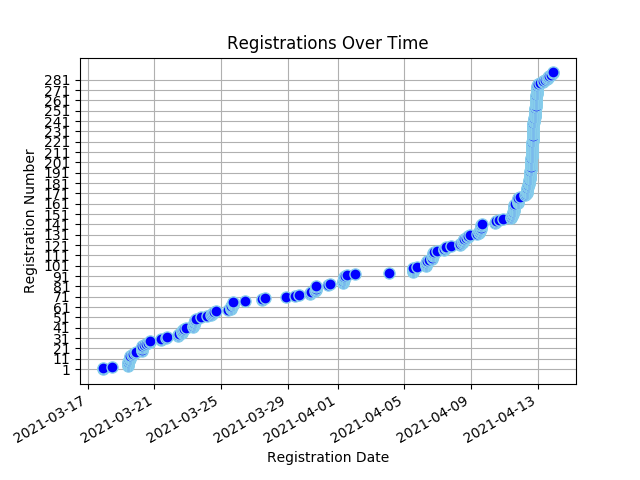
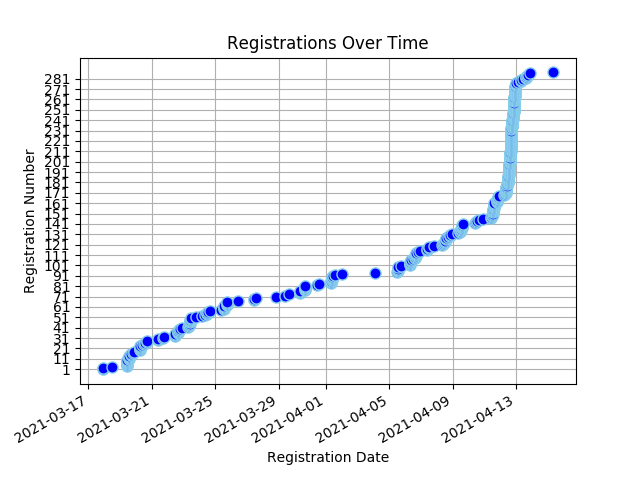
Registree stats backup on Thu 15 Apr 2021 09:12:01 SAST

diff --git a/content/registrees/_index.md b/content/registrees/_index.md
@@ -3,7 +3,7 @@ title: Registration Stats
 draft: false
 ---
 
-<ul><li><strong>Number of Registrees</strong>: 288</li>
+<ul><li><strong>Number of Registrees</strong>: 287</li>
 
 <li><strong>Number of Clubs</strong>: 68</li>
 
@@ -33,6 +33,6 @@ draft: false
         </tr>
     </thead>
     <tbody>
-<tr><td>Natalie Abrahams</td><td>Cape Town</td><td>410W</td></tr><tr><td>Alan Abramsohn</td><td>Milnerton</td><td>410W</td></tr><tr><td>Janine Abramsohn</td><td>Sea Point</td><td>410W</td></tr><tr><td>Rashid Adams</td><td>Athlone</td><td>410W</td></tr><tr><td>Linda Anderson</td><td>George</td><td>410W</td></tr><tr><td>Neale Stewart ANDREWS</td><td>Cowies Hill</td><td>410E</td></tr><tr><td>Linda Baumgarten</td><td>Sea Point</td><td>410W</td></tr><tr><td>Ulrike Behrens</td><td>Windhoek</td><td>410W</td></tr><tr><td>Cathleen Benade</td><td>Rehoboth</td><td>410W</td></tr><tr><td>Cathleen Benade</td><td>Rehoboth</td><td>410W</td></tr><tr><td>Cathleen Benade</td><td>Rehoboth</td><td>410W</td></tr><tr><td>Valencia Beukes-Williams</td><td>Kuilsriver</td><td>410W</td></tr><tr><td>Belinda Blakeman</td><td>North Durban</td><td>410E</td></tr><tr><td>Lyn(ette) Botha</td><td>Cowies Hill</td><td>410E</td></tr><tr><td>JOSE BRAGA BORGES</td><td>Malmesbury</td><td>410W</td></tr><tr><td>Paul Brauteseth</td><td>Port Shepstone</td><td>410E</td></tr><tr><td>Byron Brooker</td><td>Pretoria South</td><td>410E</td></tr><tr><td>Nelle Buhrmann</td><td>Sea Point</td><td>410W</td></tr><tr><td>Christopher Bull</td><td>The Wilds</td><td>410E</td></tr><tr><td>Herman Cadman</td><td>Stellenbosch</td><td>410W</td></tr><tr><td>Artemis Calomiris</td><td>Helderberg</td><td>410W</td></tr><tr><td>Linda Ann Cannone</td><td>Fish Hoek</td><td>410W</td></tr><tr><td>Petrus Carstens</td><td>Worcester</td><td>410W</td></tr><tr><td>Lizelle Castle</td><td>Athlone</td><td>410W</td></tr><tr><td>Sue Charles</td><td>Tokai</td><td>410W</td></tr><tr><td>Lionel Chazen</td><td>Edenvale</td><td>410E</td></tr><tr><td>Perry Chetty</td><td>East Coast</td><td>410E</td></tr><tr><td>Tanyaradzwa Chinyai</td><td>Groote Schuur</td><td>410W</td></tr><tr><td>Delaney Yeltsin Cloete</td><td>Eden</td><td>410W</td></tr><tr><td>Kate Coppen</td><td>Letaba Tzaneen</td><td>410E</td></tr><tr><td>Esme Cornelius</td><td>Kuilsriver</td><td>410W</td></tr><tr><td>Sharon Cottle</td><td>Groote Schuur</td><td>410W</td></tr><tr><td>Joel d'Offay</td><td>Milnerton</td><td>410W</td></tr><tr><td>Peter Daniel</td><td>Gordons Bay</td><td>410W</td></tr><tr><td>Norma Daniel</td><td>Gordons Bay</td><td>410W</td></tr><tr><td>Melanie Davids</td><td>Alberton</td><td>410E</td></tr><tr><td>Engela de Kock</td><td>Swellendam</td><td>410W</td></tr><tr><td>Francois de Kock</td><td>Swellendam</td><td>410W</td></tr><tr><td>Charlotte de Silva</td><td>Edenvale</td><td>410E</td></tr><tr><td>ANDRE DE VILLIERS</td><td>Malgas</td><td>410W</td></tr><tr><td>Lara De Wet</td><td>Edenvale</td><td>410E</td></tr><tr><td>Benita Diener</td><td>Mitchells Plain</td><td>410W</td></tr><tr><td>Freda Dodd</td><td>Table View</td><td>410W</td></tr><tr><td>Peggy Du Plooy</td><td>Krugersdorp</td><td>410E</td></tr><tr><td>Ivan Du Plooy</td><td>Krugersdorp</td><td>410E</td></tr><tr><td>Tammy du Plooy</td><td>Alberton</td><td>410E</td></tr><tr><td>Marc du Plooy</td><td>Alberton</td><td>410E</td></tr><tr><td>Desiree du Toit</td><td>Ramsgate</td><td>410E</td></tr><tr><td>Hanè Dunn</td><td>Swellendam</td><td>410W</td></tr><tr><td>Glynn Easton</td><td>Helderkruin</td><td>410E</td></tr><tr><td>Denise Easton</td><td>Helderkruin</td><td>410E</td></tr><tr><td>Johan Els</td><td>Wilro Park</td><td>410E</td></tr><tr><td>Fadia Ely</td><td>Athlone</td><td>410W</td></tr><tr><td>Abubakr Ely</td><td>Deep South</td><td>410W</td></tr><tr><td>Freddie Erasmus</td><td>Uitenhage</td><td>410E</td></tr><tr><td>Natalie Etridge</td><td>Sedgefield</td><td>410W</td></tr><tr><td>AIDAN Ewers</td><td>Newlands</td><td>410W</td></tr><tr><td>Roger Fahrbach</td><td>Windhoek</td><td>410W</td></tr><tr><td>Beate Fahrbach</td><td>Windhoek</td><td>410W</td></tr><tr><td>Jules Flanagan</td><td>Tokai</td><td>410W</td></tr><tr><td>Charles Flanagan</td><td>Tokai</td><td>410W</td></tr><tr><td>Jéan Fouché</td><td>Worcester</td><td>410W</td></tr><tr><td>Michele Fourie</td><td>Merriman</td><td>410W</td></tr><tr><td>Lucille Fourie</td><td>Alberton</td><td>410E</td></tr><tr><td>Clive Fox</td><td>Merriman</td><td>410W</td></tr><tr><td>Pat Fox</td><td>Merriman</td><td>410W</td></tr><tr><td>Kelvin Foxcroft</td><td>Helderkruin</td><td>410E</td></tr><tr><td>Jenny Foxcroft</td><td>Helderkruin</td><td>410E</td></tr><tr><td>Katherine Foxcroft</td><td>Helderkruin</td><td>410E</td></tr><tr><td>Martin Froise</td><td>Letaba Tzaneen</td><td>410E</td></tr><tr><td>Allison Georges</td><td>Cape Of Good Hope</td><td>410W</td></tr><tr><td>Bernd Gerhard</td><td>Wilro Park</td><td>410E</td></tr><tr><td>Shirley Gerhard</td><td>Wilro Park</td><td>410E</td></tr><tr><td>Valerie Graham</td><td>Nelspruit</td><td>410E</td></tr><tr><td>Mike Graham</td><td>Nelspruit</td><td>410E</td></tr><tr><td>Viv Grater</td><td>Sedgefield</td><td>410W</td></tr><tr><td>Brian Gray</td><td>Durbanville</td><td>410W</td></tr><tr><td>David Griffith</td><td>The Wilds</td><td>410E</td></tr><tr><td>Matty Grobler</td><td>Henties Bay</td><td>410W</td></tr><tr><td>Christiana Groenewoud</td><td>Milnerton</td><td>410W</td></tr><tr><td>Mattheus Groves</td><td>Sedgefield</td><td>410W</td></tr><tr><td>Glyn Gunter</td><td>Malmesbury</td><td>410W</td></tr><tr><td>Clint Guthrie</td><td>Pretoria South</td><td>410E</td></tr><tr><td>Barbara Haywood</td><td>Eden</td><td>410W</td></tr><tr><td>Mike Heathcote</td><td>Port Shepstone</td><td>410E</td></tr><tr><td>Zarina Hendricks</td><td>Athlone</td><td>410W</td></tr><tr><td>ELIZABETH Hendriks</td><td>Table View</td><td>410W</td></tr><tr><td>MBULELO HERMANUS</td><td>Alberton</td><td>410E</td></tr><tr><td>Evelyn Herzfeld</td><td>Edenvale</td><td>410E</td></tr><tr><td>Dorothy Hess</td><td>Kuilsriver</td><td>410W</td></tr><tr><td>Wendy Higgins</td><td>Wilro Park</td><td>410E</td></tr><tr><td>Avril Hobbs</td><td>North Durban</td><td>410E</td></tr><tr><td>Trevor Hobbs</td><td>North Durban</td><td>410E</td></tr><tr><td>Jacqui Hocking</td><td>Midrand</td><td>410E</td></tr><tr><td>Cliff Hocking</td><td>Midrand</td><td>410E</td></tr><tr><td>Ellen G W Hoffmann</td><td>Windhoek</td><td>410W</td></tr><tr><td>KEITH ALEXANDER HOLLIMAN</td><td>Alberton</td><td>410E</td></tr><tr><td>Liz Houston</td><td>Table View</td><td>410W</td></tr><tr><td>John Houston</td><td>Table View</td><td>410W</td></tr><tr><td>Johan Huysamen</td><td>Malmesbury</td><td>410W</td></tr><tr><td>Alna Jackson</td><td>Pretoria Jakaranda</td><td>410E</td></tr><tr><td>Dawid Jacobs</td><td>Durbanville</td><td>410W</td></tr><tr><td>Jean Jacobs</td><td>Mitchells Plain</td><td>410W</td></tr><tr><td>WOLSLEY Jacobson</td><td>Cape Town</td><td>410W</td></tr><tr><td>Tristan Jeniker</td><td>Merriman</td><td>410W</td></tr><tr><td>MALCOLM JOHNSTON</td><td>Standerton</td><td>410E</td></tr><tr><td>Grant Jonathan</td><td>Gordons Bay</td><td>410W</td></tr><tr><td>Jos Kahn</td><td>Ceres</td><td>410W</td></tr><tr><td>Michelle Kahn</td><td>Sea Point</td><td>410W</td></tr><tr><td>Nico Kaiyamo</td><td>Tsumeb</td><td>410W</td></tr><tr><td>Faezal Karriem</td><td>Worcester</td><td>410W</td></tr><tr><td>Amanda Kemp</td><td>Milnerton</td><td>410W</td></tr><tr><td>Esmeralda Catherine Kennel</td><td>Newlands</td><td>410W</td></tr><tr><td>Jerome Kern</td><td>Groote Schuur</td><td>410W</td></tr><tr><td>Hassan Khan</td><td>Kirstenbosch</td><td>410W</td></tr><tr><td>Faniso Khoza</td><td>The Wilds</td><td>410E</td></tr><tr><td>Margie Kienast</td><td>Edenvale</td><td>410E</td></tr><tr><td>Joyce Kimari</td><td>Eden</td><td>410E</td></tr><tr><td>Ian King</td><td>Alberton</td><td>410E</td></tr><tr><td>Sandy King</td><td>Alberton</td><td>410E</td></tr><tr><td>Christa Koekemoer</td><td>Letaba Tzaneen</td><td>410E</td></tr><tr><td>Alton Koenze</td><td>Worcester</td><td>410W</td></tr><tr><td>Muya Koloko</td><td>Durbanville</td><td>410W</td></tr><tr><td>Zwaai Kruger</td><td>Sedgefield</td><td>410W</td></tr><tr><td>Pieter Kruger</td><td>Wilro Park</td><td>410E</td></tr><tr><td>Niqula Kruger</td><td>Wilro Park</td><td>410E</td></tr><tr><td>Bettina Kröning</td><td>Windhoek</td><td>410W</td></tr><tr><td>Natalie Laas</td><td>Alberton</td><td>410E</td></tr><tr><td>Susan Labuschagne</td><td>Wilro Park</td><td>410E</td></tr><tr><td>Bevil Lakay</td><td>Mitchells Plain</td><td>410W</td></tr><tr><td>Paula Lang</td><td>Gordons Bay</td><td>410W</td></tr><tr><td>Jimmy Lang</td><td>Gordons Bay</td><td>410W</td></tr><tr><td>Elke Langmaak</td><td>Windhoek</td><td>410W</td></tr><tr><td>Kai Langmaak</td><td>Windhoek</td><td>410W</td></tr><tr><td>Evelyn May Langton</td><td>Alberton</td><td>410E</td></tr><tr><td>Herman Laubscher</td><td>Ceres</td><td>410W</td></tr><tr><td>Steven Lautenbach</td><td>Pretoria South</td><td>410E</td></tr><tr><td>leandre layman</td><td>Groote Schuur</td><td>410W</td></tr><tr><td>Jeanette le Roux</td><td>Gonubie</td><td>410E</td></tr><tr><td>Heather Lee</td><td>Cape Of Good Hope</td><td>410W</td></tr><tr><td>Graeme Logan</td><td>Pretoria South</td><td>410E</td></tr><tr><td>Erika Louw</td><td>Durbanville</td><td>410W</td></tr><tr><td>Dee Love</td><td>Cowies Hill</td><td>410E</td></tr><tr><td>Rashmiya Lucas</td><td>Mitchells Plain</td><td>410W</td></tr><tr><td>Zarina Luck</td><td>Newcastle</td><td>410E</td></tr><tr><td>Pam MacRobert</td><td>Groote Schuur</td><td>410W</td></tr><tr><td>Sharon Mangwende</td><td>Cape Town</td><td>410W</td></tr><tr><td>Richard MARCHANT</td><td>The Wilds</td><td>410E</td></tr><tr><td>Beaulieu Mare</td><td>Benoni Lakes</td><td>410E</td></tr><tr><td>Nick Maré</td><td>Benoni Lakes</td><td>410E</td></tr><tr><td>Jean Masson</td><td>Port Shepstone</td><td>410E</td></tr><tr><td>LANCE MAYTHAM</td><td>Swellendam</td><td>410W</td></tr><tr><td>ROSEMARIE MAYTHAM</td><td>Swellendam</td><td>410W</td></tr><tr><td>David Mccullough</td><td>Pretoria South</td><td>410E</td></tr><tr><td>Rochelle McDonald</td><td>Vereeniging</td><td>410E</td></tr><tr><td>Alec McKerrow</td><td>Port Alfred</td><td>410E</td></tr><tr><td>Stuart McPherson</td><td>Newlands</td><td>410W</td></tr><tr><td>Mark Meltzer</td><td>The Wilds</td><td>410E</td></tr><tr><td>Elisa Metz</td><td>Milnerton</td><td>410W</td></tr><tr><td>Denis Meyer</td><td>Port Shepstone</td><td>410E</td></tr><tr><td>Roy Michas</td><td>Midrand</td><td>410E</td></tr><tr><td>Dawn Michas</td><td>Midrand</td><td>410E</td></tr><tr><td>BERNICE MILLS</td><td>Centurion</td><td>410E</td></tr><tr><td>Patrick Mills</td><td>Centurion</td><td>410E</td></tr><tr><td>Cherie Milosevich</td><td>Milnerton</td><td>410W</td></tr><tr><td>Alana Mitchell</td><td>Rustenburg</td><td>410E</td></tr><tr><td>Juan Mitchell</td><td>Rustenburg</td><td>410E</td></tr><tr><td>Virginia Mkhize</td><td>Cape Town</td><td>410W</td></tr><tr><td>Frauke E. Moeller</td><td>Windhoek</td><td>410W</td></tr><tr><td>Bernadine Moses</td><td>Cape Town</td><td>410W</td></tr><tr><td>Brian Mosesd</td><td>Cape Of Good Hope</td><td>410W</td></tr><tr><td>Jacques Mostert</td><td>Merriman</td><td>410W</td></tr><tr><td>Suzanne Murray</td><td>Vereeniging</td><td>410E</td></tr><tr><td>Gary Murray</td><td>Vereeniging</td><td>410E</td></tr><tr><td>Peter Mutschler</td><td>Grootfontein</td><td>410W</td></tr><tr><td>Pieter Myburg</td><td>Wellington</td><td>410W</td></tr><tr><td>Cornette Naude</td><td>Letaba Tzaneen</td><td>410E</td></tr><tr><td>Pieter Nel</td><td>George</td><td>410W</td></tr><tr><td>Tillie Nel</td><td>Eden</td><td>410W</td></tr><tr><td>Theo Nel</td><td>Pretoria South</td><td>410E</td></tr><tr><td>Mike Newlands</td><td>Port Alfred</td><td>410E</td></tr><tr><td>Angela Niehaus</td><td>Bergvliet</td><td>410W</td></tr><tr><td>Rachel Nortjie</td><td>Mitchells Plain</td><td>410W</td></tr><tr><td>PDG Bokkie Oberholzer</td><td>Uitenhage</td><td>410E</td></tr><tr><td>Chris Ocker</td><td>Fish Hoek</td><td>410W</td></tr><tr><td>Jenny Ocker</td><td>Fish Hoek</td><td>410W</td></tr><tr><td>Debra Olivier</td><td>Sedgefield</td><td>410W</td></tr><tr><td>Isabella Stratton Ormandy</td><td>Milnerton</td><td>410W</td></tr><tr><td>Teresa Pantoleon</td><td>Vereeniging</td><td>410E</td></tr><tr><td>Maureen Peters</td><td>Ceres</td><td>410W</td></tr><tr><td>Sundru Pillay</td><td>Durbanville</td><td>410W</td></tr><tr><td>Patrick Pillay</td><td>Tygerberg Hills</td><td>410W</td></tr><tr><td>Tracey Polkinghorne</td><td>Kensington</td><td>410E</td></tr><tr><td>Gavin Polkinghorne</td><td>Kensington</td><td>410E</td></tr><tr><td>BRIAN PORTEOUS</td><td>Hibberdene</td><td>410E</td></tr><tr><td>Yvonne  Maureen Poyowe</td><td>Cape Of Good Hope</td><td>410W</td></tr><tr><td>Sheldon Edmund Pretorius</td><td>Merriman</td><td>410W</td></tr><tr><td>Mary-Anne Ras</td><td>Swellendam</td><td>410W</td></tr><tr><td>Leon Jacobus Ras</td><td>Swellendam</td><td>410E</td></tr><tr><td>Hugo Reniers</td><td>Nelspruit</td><td>410E</td></tr><tr><td>Sandy Roman</td><td>Bergvliet</td><td>410W</td></tr><tr><td>Mark Rossouw</td><td>Tokai</td><td>410W</td></tr><tr><td>Andrea Rothner</td><td>Eden</td><td>410W</td></tr><tr><td>Anthonie Petrus Roux</td><td>Moorreesburg</td><td>410W</td></tr><tr><td>Ingrid Russell</td><td>Fish Hoek</td><td>410W</td></tr><tr><td>Rodney Sabatier</td><td>Letaba Tzaneen</td><td>410E</td></tr><tr><td>Sharon Sampie</td><td>Bergvliet</td><td>410W</td></tr><tr><td>Vera Schatz</td><td>Windhoek</td><td>410W</td></tr><tr><td>Frank Schatz</td><td>Windhoek</td><td>410W</td></tr><tr><td>Francis Searle</td><td>Kouga</td><td>410E</td></tr><tr><td>Gloria Searle</td><td>Kouga</td><td>410E</td></tr><tr><td>Ami Sell</td><td>Windhoek</td><td>410W</td></tr><tr><td>Beryl Simpson</td><td>Cape Town</td><td>410W</td></tr><tr><td>Kenlis Sircoulomb</td><td>Windhoek</td><td>410W</td></tr><tr><td>Holger Sircoulomb</td><td>Windhoek</td><td>410W</td></tr><tr><td>Hennie Smeer</td><td>Windhoek</td><td>410W</td></tr><tr><td>Sue Smit</td><td>Centurion</td><td>410E</td></tr><tr><td>Herman Smit</td><td>Swellendam</td><td>410W</td></tr><tr><td>Santie Smit</td><td>Durbanville</td><td>410W</td></tr><tr><td>Jeff Smith</td><td>Port Shepstone</td><td>410E</td></tr><tr><td>Bennie Smith</td><td>Wellington</td><td>410W</td></tr><tr><td>Carmen Dolores Smith</td><td>Tokai</td><td>410W</td></tr><tr><td>David John Smith</td><td>Tokai</td><td>410W</td></tr><tr><td>LYN SNYMAN</td><td>Deep South</td><td>410W</td></tr><tr><td>Diana Sochen</td><td>Sea Point</td><td>410W</td></tr><tr><td>Max Stander</td><td>Port Alfred</td><td>410E</td></tr><tr><td>Ashley Stander</td><td>Krugersdorp</td><td>410E</td></tr><tr><td>Brett Jason Stander</td><td>Krugersdorp</td><td>410E</td></tr><tr><td>TIM STEENBERG</td><td>Wellington</td><td>410W</td></tr><tr><td>Elna Steyn</td><td>Wilro Park</td><td>410E</td></tr><tr><td>RORY stier</td><td>Deep South</td><td>410W</td></tr><tr><td>Patrick Strauss</td><td>Kuilsriver</td><td>410W</td></tr><tr><td>Trevor Sturges</td><td>Midrand</td><td>410E</td></tr><tr><td>Lauryn Talbot</td><td>Benoni Lakes</td><td>410E</td></tr><tr><td>Margaret Thackwell</td><td>Table View</td><td>410W</td></tr><tr><td>Pierre Theron</td><td>Midrand</td><td>410E</td></tr><tr><td>Moira Theron</td><td>Midrand</td><td>410E</td></tr><tr><td>Diane Townsend</td><td>Benoni Lakes</td><td>410E</td></tr><tr><td>Omolayo Toye</td><td>The Wilds</td><td>410E</td></tr><tr><td>David Alex Tshikala</td><td>Athlone</td><td>410W</td></tr><tr><td>Alistair Tuckett</td><td>Roodepoort Clearwater Cyber</td><td>410E</td></tr><tr><td>Rowan Tuckett</td><td>Roodepoort Clearwater Cyber</td><td>410E</td></tr><tr><td>Gail Tuckett</td><td>Roodepoort Clearwater Cyber</td><td>410E</td></tr><tr><td>Jiri Uchytil</td><td>Alberton</td><td>410E</td></tr><tr><td>Tracy Valadao</td><td>Midrand</td><td>410E</td></tr><tr><td>Carl van Blerk</td><td>Eden</td><td>410W</td></tr><tr><td>HILARY LISE VAN BREDA</td><td>Cape Town</td><td>410W</td></tr><tr><td>Marina Van de Merwe</td><td>Malmesbury</td><td>410W</td></tr><tr><td>Ingrid van der Merwe</td><td>Letaba Tzaneen</td><td>410E</td></tr><tr><td>PATRICIA VAN DER MERWE</td><td>East London Port Rex</td><td>410E</td></tr><tr><td>MARINA VAN DER MERWE</td><td>Malmesbury</td><td>410W</td></tr><tr><td>Hennie van der Westhuizen</td><td>Helderberg</td><td>410W</td></tr><tr><td>Sydney van Heerden</td><td>Wilro Park</td><td>410E</td></tr><tr><td>Sandy van Heerden</td><td>Wilro Park</td><td>410E</td></tr><tr><td>Craig van Heerden</td><td>East London Beacon Bay</td><td>410E</td></tr><tr><td>Mark van Heerden</td><td>Pretoria South</td><td>410E</td></tr><tr><td>Riaan Van Niekerk</td><td>Pretoria South</td><td>410E</td></tr><tr><td>Neville Van Rensburg</td><td>Moorreesburg</td><td>410W</td></tr><tr><td>Johan van Rensburg</td><td>Windhoek</td><td>410W</td></tr><tr><td>Anne van Rensburg</td><td>Windhoek</td><td>410W</td></tr><tr><td>Lorna Van Romburgh</td><td>Fish Hoek</td><td>410W</td></tr><tr><td>Jeannie van Wulven</td><td>Tygerberg Hills</td><td>410W</td></tr><tr><td>Alan van Wulven</td><td>Tygerberg Hills</td><td>410W</td></tr><tr><td>Deon van Wulven</td><td>Tygerberg Hills</td><td>410W</td></tr><tr><td>Kim van Wyk</td><td>North Durban</td><td>410E</td></tr><tr><td>Lindie van Wyk</td><td>Pretoria Jakaranda</td><td>410E</td></tr><tr><td>Willem van Wyk</td><td>Midrand</td><td>410E</td></tr><tr><td>Patricia van Wyk</td><td>Pretoria Jakaranda</td><td>410E</td></tr><tr><td>Edith Van Wyk-Nelson</td><td>Kuilsriver</td><td>410W</td></tr><tr><td>Louis Venter</td><td>Letaba Tzaneen</td><td>410E</td></tr><tr><td>Russell Volker</td><td>King William's Town</td><td>410E</td></tr><tr><td>Brian von der Decken</td><td>King William's Town</td><td>410E</td></tr><tr><td>Rinette Von Mollendorf</td><td>Durbanville</td><td>410W</td></tr><tr><td>Rochelle Vorster</td><td>Sedgefield</td><td>410W</td></tr><tr><td>Alastair Warman</td><td>Port Shepstone</td><td>410E</td></tr><tr><td>Allan Watson</td><td>Sea Point</td><td>410W</td></tr><tr><td>Alison Watson</td><td>Sedgefield</td><td>410W</td></tr><tr><td>Johanna Williams</td><td>Mitchells Plain</td><td>410W</td></tr><tr><td>Neville Williamson</td><td>Port Alfred</td><td>410E</td></tr><tr><td>Geila Wills</td><td>Athlone</td><td>410W</td></tr><tr><td>Meredith Wilter-Sturges</td><td>Midrand</td><td>410E</td></tr><tr><td>Joan Woodman</td><td>Mitchells Plain</td><td>410W</td></tr><tr><td>Rocky Wright</td><td>Table View</td><td>410W</td></tr><tr><td>Judy Young</td><td>Durbanville</td><td>410W</td></tr><tr><td>Gerry Young</td><td>Mitchells Plain</td><td>410W</td></tr><tr><td>Leonie Zucker</td><td>Milnerton</td><td>410W</td></tr><tr><td>Leonie Zucker</td><td>Milnerton</td><td>410E</td></tr><tr><td>Michelle ‘t Hart</td><td>Benoni Lakes</td><td>410E</td></tr>
+<tr><td>Natalie Abrahams</td><td>Cape Town</td><td>410W</td></tr><tr><td>Alan Abramsohn</td><td>Milnerton</td><td>410W</td></tr><tr><td>Janine Abramsohn</td><td>Sea Point</td><td>410W</td></tr><tr><td>Rashid Adams</td><td>Athlone</td><td>410W</td></tr><tr><td>Linda Anderson</td><td>George</td><td>410W</td></tr><tr><td>Neale Stewart ANDREWS</td><td>Cowies Hill</td><td>410E</td></tr><tr><td>Linda Baumgarten</td><td>Sea Point</td><td>410W</td></tr><tr><td>Ulrike Behrens</td><td>Windhoek</td><td>410W</td></tr><tr><td>Cathleen Benade</td><td>Rehoboth</td><td>410W</td></tr><tr><td>Valencia Beukes-Williams</td><td>Kuilsriver</td><td>410W</td></tr><tr><td>Belinda Blakeman</td><td>North Durban</td><td>410E</td></tr><tr><td>Mel Boswell</td><td>Nelspruit</td><td>410E</td></tr><tr><td>Lyn(ette) Botha</td><td>Cowies Hill</td><td>410E</td></tr><tr><td>JOSE BRAGA BORGES</td><td>Malmesbury</td><td>410W</td></tr><tr><td>Paul Brauteseth</td><td>Port Shepstone</td><td>410E</td></tr><tr><td>Byron Brooker</td><td>Pretoria South</td><td>410E</td></tr><tr><td>Nelle Buhrmann</td><td>Sea Point</td><td>410W</td></tr><tr><td>Christopher Bull</td><td>The Wilds</td><td>410E</td></tr><tr><td>Herman Cadman</td><td>Stellenbosch</td><td>410W</td></tr><tr><td>Artemis Calomiris</td><td>Helderberg</td><td>410W</td></tr><tr><td>Linda Ann Cannone</td><td>Fish Hoek</td><td>410W</td></tr><tr><td>Petrus Carstens</td><td>Worcester</td><td>410W</td></tr><tr><td>Lizelle Castle</td><td>Athlone</td><td>410W</td></tr><tr><td>Sue Charles</td><td>Tokai</td><td>410W</td></tr><tr><td>Lionel Chazen</td><td>Edenvale</td><td>410E</td></tr><tr><td>Perry Chetty</td><td>East Coast</td><td>410E</td></tr><tr><td>Tanyaradzwa Chinyai</td><td>Groote Schuur</td><td>410W</td></tr><tr><td>Delaney Yeltsin Cloete</td><td>Eden</td><td>410W</td></tr><tr><td>Kate Coppen</td><td>Letaba Tzaneen</td><td>410E</td></tr><tr><td>Esme Cornelius</td><td>Kuilsriver</td><td>410W</td></tr><tr><td>Sharon Cottle</td><td>Groote Schuur</td><td>410W</td></tr><tr><td>Joel d'Offay</td><td>Milnerton</td><td>410W</td></tr><tr><td>Peter Daniel</td><td>Gordons Bay</td><td>410W</td></tr><tr><td>Norma Daniel</td><td>Gordons Bay</td><td>410W</td></tr><tr><td>Melanie Davids</td><td>Alberton</td><td>410E</td></tr><tr><td>Engela de Kock</td><td>Swellendam</td><td>410W</td></tr><tr><td>Francois de Kock</td><td>Swellendam</td><td>410W</td></tr><tr><td>Charlotte de Silva</td><td>Edenvale</td><td>410E</td></tr><tr><td>ANDRE DE VILLIERS</td><td>Malgas</td><td>410W</td></tr><tr><td>Lara De Wet</td><td>Edenvale</td><td>410E</td></tr><tr><td>Benita Diener</td><td>Mitchells Plain</td><td>410W</td></tr><tr><td>Freda Dodd</td><td>Table View</td><td>410W</td></tr><tr><td>Peggy Du Plooy</td><td>Krugersdorp</td><td>410E</td></tr><tr><td>Ivan Du Plooy</td><td>Krugersdorp</td><td>410E</td></tr><tr><td>Tammy du Plooy</td><td>Alberton</td><td>410E</td></tr><tr><td>Marc du Plooy</td><td>Alberton</td><td>410E</td></tr><tr><td>Desiree du Toit</td><td>Ramsgate</td><td>410E</td></tr><tr><td>Hanè Dunn</td><td>Swellendam</td><td>410W</td></tr><tr><td>Glynn Easton</td><td>Helderkruin</td><td>410E</td></tr><tr><td>Denise Easton</td><td>Helderkruin</td><td>410E</td></tr><tr><td>Johan Els</td><td>Wilro Park</td><td>410E</td></tr><tr><td>Fadia Ely</td><td>Athlone</td><td>410W</td></tr><tr><td>Abubakr Ely</td><td>Deep South</td><td>410W</td></tr><tr><td>Freddie Erasmus</td><td>Uitenhage</td><td>410E</td></tr><tr><td>Natalie Etridge</td><td>Sedgefield</td><td>410W</td></tr><tr><td>AIDAN Ewers</td><td>Newlands</td><td>410W</td></tr><tr><td>Roger Fahrbach</td><td>Windhoek</td><td>410W</td></tr><tr><td>Beate Fahrbach</td><td>Windhoek</td><td>410W</td></tr><tr><td>Jules Flanagan</td><td>Tokai</td><td>410W</td></tr><tr><td>Charles Flanagan</td><td>Tokai</td><td>410W</td></tr><tr><td>Jéan Fouché</td><td>Worcester</td><td>410W</td></tr><tr><td>Michele Fourie</td><td>Merriman</td><td>410W</td></tr><tr><td>Lucille Fourie</td><td>Alberton</td><td>410E</td></tr><tr><td>Clive Fox</td><td>Merriman</td><td>410W</td></tr><tr><td>Pat Fox</td><td>Merriman</td><td>410W</td></tr><tr><td>Kelvin Foxcroft</td><td>Helderkruin</td><td>410E</td></tr><tr><td>Jenny Foxcroft</td><td>Helderkruin</td><td>410E</td></tr><tr><td>Katherine Foxcroft</td><td>Helderkruin</td><td>410E</td></tr><tr><td>Martin Froise</td><td>Letaba Tzaneen</td><td>410E</td></tr><tr><td>Allison Georges</td><td>Cape Of Good Hope</td><td>410W</td></tr><tr><td>Bernd Gerhard</td><td>Wilro Park</td><td>410E</td></tr><tr><td>Shirley Gerhard</td><td>Wilro Park</td><td>410E</td></tr><tr><td>Valerie Graham</td><td>Nelspruit</td><td>410E</td></tr><tr><td>Mike Graham</td><td>Nelspruit</td><td>410E</td></tr><tr><td>Viv Grater</td><td>Sedgefield</td><td>410W</td></tr><tr><td>Brian Gray</td><td>Durbanville</td><td>410W</td></tr><tr><td>David Griffith</td><td>The Wilds</td><td>410E</td></tr><tr><td>Matty Grobler</td><td>Henties Bay</td><td>410W</td></tr><tr><td>Christiana Groenewoud</td><td>Milnerton</td><td>410W</td></tr><tr><td>Mattheus Groves</td><td>Sedgefield</td><td>410W</td></tr><tr><td>Glyn Gunter</td><td>Malmesbury</td><td>410W</td></tr><tr><td>Clint Guthrie</td><td>Pretoria South</td><td>410E</td></tr><tr><td>Barbara Haywood</td><td>Eden</td><td>410W</td></tr><tr><td>Mike Heathcote</td><td>Port Shepstone</td><td>410E</td></tr><tr><td>Zarina Hendricks</td><td>Athlone</td><td>410W</td></tr><tr><td>ELIZABETH Hendriks</td><td>Table View</td><td>410W</td></tr><tr><td>MBULELO HERMANUS</td><td>Alberton</td><td>410E</td></tr><tr><td>Evelyn Herzfeld</td><td>Edenvale</td><td>410E</td></tr><tr><td>Dorothy Hess</td><td>Kuilsriver</td><td>410W</td></tr><tr><td>Wendy Higgins</td><td>Wilro Park</td><td>410E</td></tr><tr><td>Avril Hobbs</td><td>North Durban</td><td>410E</td></tr><tr><td>Trevor Hobbs</td><td>North Durban</td><td>410E</td></tr><tr><td>Jacqui Hocking</td><td>Midrand</td><td>410E</td></tr><tr><td>Cliff Hocking</td><td>Midrand</td><td>410E</td></tr><tr><td>Ellen G W Hoffmann</td><td>Windhoek</td><td>410W</td></tr><tr><td>KEITH ALEXANDER HOLLIMAN</td><td>Alberton</td><td>410E</td></tr><tr><td>Liz Houston</td><td>Table View</td><td>410W</td></tr><tr><td>John Houston</td><td>Table View</td><td>410W</td></tr><tr><td>Johan Huysamen</td><td>Malmesbury</td><td>410W</td></tr><tr><td>Alna Jackson</td><td>Pretoria Jakaranda</td><td>410E</td></tr><tr><td>Dawid Jacobs</td><td>Durbanville</td><td>410W</td></tr><tr><td>Jean Jacobs</td><td>Mitchells Plain</td><td>410W</td></tr><tr><td>WOLSLEY Jacobson</td><td>Cape Town</td><td>410W</td></tr><tr><td>Tristan Jeniker</td><td>Merriman</td><td>410W</td></tr><tr><td>MALCOLM JOHNSTON</td><td>Standerton</td><td>410E</td></tr><tr><td>Grant Jonathan</td><td>Gordons Bay</td><td>410W</td></tr><tr><td>Jos Kahn</td><td>Ceres</td><td>410W</td></tr><tr><td>Michelle Kahn</td><td>Sea Point</td><td>410W</td></tr><tr><td>Nico Kaiyamo</td><td>Tsumeb</td><td>410W</td></tr><tr><td>Faezal Karriem</td><td>Worcester</td><td>410W</td></tr><tr><td>Amanda Kemp</td><td>Milnerton</td><td>410W</td></tr><tr><td>Esmeralda Catherine Kennel</td><td>Newlands</td><td>410W</td></tr><tr><td>Jerome Kern</td><td>Groote Schuur</td><td>410W</td></tr><tr><td>Hassan Khan</td><td>Kirstenbosch</td><td>410W</td></tr><tr><td>Faniso Khoza</td><td>The Wilds</td><td>410E</td></tr><tr><td>Margie Kienast</td><td>Edenvale</td><td>410E</td></tr><tr><td>Joyce Kimari</td><td>Eden</td><td>410E</td></tr><tr><td>Ian King</td><td>Alberton</td><td>410E</td></tr><tr><td>Sandy King</td><td>Alberton</td><td>410E</td></tr><tr><td>Christa Koekemoer</td><td>Letaba Tzaneen</td><td>410E</td></tr><tr><td>Alton Koenze</td><td>Worcester</td><td>410W</td></tr><tr><td>Muya Koloko</td><td>Durbanville</td><td>410W</td></tr><tr><td>Zwaai Kruger</td><td>Sedgefield</td><td>410W</td></tr><tr><td>Pieter Kruger</td><td>Wilro Park</td><td>410E</td></tr><tr><td>Niqula Kruger</td><td>Wilro Park</td><td>410E</td></tr><tr><td>Bettina Kröning</td><td>Windhoek</td><td>410W</td></tr><tr><td>Natalie Laas</td><td>Alberton</td><td>410E</td></tr><tr><td>Susan Labuschagne</td><td>Wilro Park</td><td>410E</td></tr><tr><td>Bevil Lakay</td><td>Mitchells Plain</td><td>410W</td></tr><tr><td>Paula Lang</td><td>Gordons Bay</td><td>410W</td></tr><tr><td>Jimmy Lang</td><td>Gordons Bay</td><td>410W</td></tr><tr><td>Elke Langmaak</td><td>Windhoek</td><td>410W</td></tr><tr><td>Kai Langmaak</td><td>Windhoek</td><td>410W</td></tr><tr><td>Evelyn May Langton</td><td>Alberton</td><td>410E</td></tr><tr><td>Herman Laubscher</td><td>Ceres</td><td>410W</td></tr><tr><td>Steven Lautenbach</td><td>Pretoria South</td><td>410E</td></tr><tr><td>leandre layman</td><td>Groote Schuur</td><td>410W</td></tr><tr><td>Jeanette le Roux</td><td>Gonubie</td><td>410E</td></tr><tr><td>Heather Lee</td><td>Cape Of Good Hope</td><td>410W</td></tr><tr><td>Graeme Logan</td><td>Pretoria South</td><td>410E</td></tr><tr><td>Erika Louw</td><td>Durbanville</td><td>410W</td></tr><tr><td>Dee Love</td><td>Cowies Hill</td><td>410E</td></tr><tr><td>Rashmiya Lucas</td><td>Mitchells Plain</td><td>410W</td></tr><tr><td>Zarina Luck</td><td>Newcastle</td><td>410E</td></tr><tr><td>Pam MacRobert</td><td>Groote Schuur</td><td>410W</td></tr><tr><td>Sharon Mangwende</td><td>Cape Town</td><td>410W</td></tr><tr><td>Richard MARCHANT</td><td>The Wilds</td><td>410E</td></tr><tr><td>Beaulieu Mare</td><td>Benoni Lakes</td><td>410E</td></tr><tr><td>Nick Maré</td><td>Benoni Lakes</td><td>410E</td></tr><tr><td>Jean Masson</td><td>Port Shepstone</td><td>410E</td></tr><tr><td>LANCE MAYTHAM</td><td>Swellendam</td><td>410W</td></tr><tr><td>ROSEMARIE MAYTHAM</td><td>Swellendam</td><td>410W</td></tr><tr><td>David Mccullough</td><td>Pretoria South</td><td>410E</td></tr><tr><td>Rochelle McDonald</td><td>Vereeniging</td><td>410E</td></tr><tr><td>Alec McKerrow</td><td>Port Alfred</td><td>410E</td></tr><tr><td>Stuart McPherson</td><td>Newlands</td><td>410W</td></tr><tr><td>Mark Meltzer</td><td>The Wilds</td><td>410E</td></tr><tr><td>Elisa Metz</td><td>Milnerton</td><td>410W</td></tr><tr><td>Denis Meyer</td><td>Port Shepstone</td><td>410E</td></tr><tr><td>Roy Michas</td><td>Midrand</td><td>410E</td></tr><tr><td>Dawn Michas</td><td>Midrand</td><td>410E</td></tr><tr><td>BERNICE MILLS</td><td>Centurion</td><td>410E</td></tr><tr><td>Patrick Mills</td><td>Centurion</td><td>410E</td></tr><tr><td>Cherie Milosevich</td><td>Milnerton</td><td>410W</td></tr><tr><td>Alana Mitchell</td><td>Rustenburg</td><td>410E</td></tr><tr><td>Juan Mitchell</td><td>Rustenburg</td><td>410E</td></tr><tr><td>Virginia Mkhize</td><td>Cape Town</td><td>410W</td></tr><tr><td>Frauke E. Moeller</td><td>Windhoek</td><td>410W</td></tr><tr><td>Bernadine Moses</td><td>Cape Town</td><td>410W</td></tr><tr><td>Brian Mosesd</td><td>Cape Of Good Hope</td><td>410W</td></tr><tr><td>Jacques Mostert</td><td>Merriman</td><td>410W</td></tr><tr><td>Suzanne Murray</td><td>Vereeniging</td><td>410E</td></tr><tr><td>Gary Murray</td><td>Vereeniging</td><td>410E</td></tr><tr><td>Peter Mutschler</td><td>Grootfontein</td><td>410W</td></tr><tr><td>Pieter Myburg</td><td>Wellington</td><td>410W</td></tr><tr><td>Cornette Naude</td><td>Letaba Tzaneen</td><td>410E</td></tr><tr><td>Pieter Nel</td><td>George</td><td>410W</td></tr><tr><td>Tillie Nel</td><td>Eden</td><td>410W</td></tr><tr><td>Theo Nel</td><td>Pretoria South</td><td>410E</td></tr><tr><td>Mike Newlands</td><td>Port Alfred</td><td>410E</td></tr><tr><td>Angela Niehaus</td><td>Bergvliet</td><td>410W</td></tr><tr><td>Rachel Nortjie</td><td>Mitchells Plain</td><td>410W</td></tr><tr><td>PDG Bokkie Oberholzer</td><td>Uitenhage</td><td>410E</td></tr><tr><td>Chris Ocker</td><td>Fish Hoek</td><td>410W</td></tr><tr><td>Jenny Ocker</td><td>Fish Hoek</td><td>410W</td></tr><tr><td>Debra Olivier</td><td>Sedgefield</td><td>410W</td></tr><tr><td>Isabella Stratton Ormandy</td><td>Milnerton</td><td>410W</td></tr><tr><td>Teresa Pantoleon</td><td>Vereeniging</td><td>410E</td></tr><tr><td>Maureen Peters</td><td>Ceres</td><td>410W</td></tr><tr><td>Sundru Pillay</td><td>Durbanville</td><td>410W</td></tr><tr><td>Patrick Pillay</td><td>Tygerberg Hills</td><td>410W</td></tr><tr><td>Tracey Polkinghorne</td><td>Kensington</td><td>410E</td></tr><tr><td>Gavin Polkinghorne</td><td>Kensington</td><td>410E</td></tr><tr><td>BRIAN PORTEOUS</td><td>Hibberdene</td><td>410E</td></tr><tr><td>Yvonne  Maureen Poyowe</td><td>Cape Of Good Hope</td><td>410W</td></tr><tr><td>Sheldon Edmund Pretorius</td><td>Merriman</td><td>410W</td></tr><tr><td>Mary-Anne Ras</td><td>Swellendam</td><td>410W</td></tr><tr><td>Leon Jacobus Ras</td><td>Swellendam</td><td>410E</td></tr><tr><td>Hugo Reniers</td><td>Nelspruit</td><td>410E</td></tr><tr><td>Sandy Roman</td><td>Bergvliet</td><td>410W</td></tr><tr><td>Mark Rossouw</td><td>Tokai</td><td>410W</td></tr><tr><td>Andrea Rothner</td><td>Eden</td><td>410W</td></tr><tr><td>Anthonie Petrus Roux</td><td>Moorreesburg</td><td>410W</td></tr><tr><td>Ingrid Russell</td><td>Fish Hoek</td><td>410W</td></tr><tr><td>Rodney Sabatier</td><td>Letaba Tzaneen</td><td>410E</td></tr><tr><td>Sharon Sampie</td><td>Bergvliet</td><td>410W</td></tr><tr><td>Vera Schatz</td><td>Windhoek</td><td>410W</td></tr><tr><td>Frank Schatz</td><td>Windhoek</td><td>410W</td></tr><tr><td>Francis Searle</td><td>Kouga</td><td>410E</td></tr><tr><td>Gloria Searle</td><td>Kouga</td><td>410E</td></tr><tr><td>Ami Sell</td><td>Windhoek</td><td>410W</td></tr><tr><td>Beryl Simpson</td><td>Cape Town</td><td>410W</td></tr><tr><td>Kenlis Sircoulomb</td><td>Windhoek</td><td>410W</td></tr><tr><td>Holger Sircoulomb</td><td>Windhoek</td><td>410W</td></tr><tr><td>Hennie Smeer</td><td>Windhoek</td><td>410W</td></tr><tr><td>Sue Smit</td><td>Centurion</td><td>410E</td></tr><tr><td>Herman Smit</td><td>Swellendam</td><td>410W</td></tr><tr><td>Santie Smit</td><td>Durbanville</td><td>410W</td></tr><tr><td>Jeff Smith</td><td>Port Shepstone</td><td>410E</td></tr><tr><td>Bennie Smith</td><td>Wellington</td><td>410W</td></tr><tr><td>Carmen Dolores Smith</td><td>Tokai</td><td>410W</td></tr><tr><td>David John Smith</td><td>Tokai</td><td>410W</td></tr><tr><td>LYN SNYMAN</td><td>Deep South</td><td>410W</td></tr><tr><td>Diana Sochen</td><td>Sea Point</td><td>410W</td></tr><tr><td>Max Stander</td><td>Port Alfred</td><td>410E</td></tr><tr><td>Ashley Stander</td><td>Krugersdorp</td><td>410E</td></tr><tr><td>Brett Jason Stander</td><td>Krugersdorp</td><td>410E</td></tr><tr><td>TIM STEENBERG</td><td>Wellington</td><td>410W</td></tr><tr><td>Elna Steyn</td><td>Wilro Park</td><td>410E</td></tr><tr><td>RORY stier</td><td>Deep South</td><td>410W</td></tr><tr><td>Patrick Strauss</td><td>Kuilsriver</td><td>410W</td></tr><tr><td>Trevor Sturges</td><td>Midrand</td><td>410E</td></tr><tr><td>Lauryn Talbot</td><td>Benoni Lakes</td><td>410E</td></tr><tr><td>Margaret Thackwell</td><td>Table View</td><td>410W</td></tr><tr><td>Pierre Theron</td><td>Midrand</td><td>410E</td></tr><tr><td>Moira Theron</td><td>Midrand</td><td>410E</td></tr><tr><td>Diane Townsend</td><td>Benoni Lakes</td><td>410E</td></tr><tr><td>Omolayo Toye</td><td>The Wilds</td><td>410E</td></tr><tr><td>David Alex Tshikala</td><td>Athlone</td><td>410W</td></tr><tr><td>Alistair Tuckett</td><td>Roodepoort Clearwater Cyber</td><td>410E</td></tr><tr><td>Rowan Tuckett</td><td>Roodepoort Clearwater Cyber</td><td>410E</td></tr><tr><td>Gail Tuckett</td><td>Roodepoort Clearwater Cyber</td><td>410E</td></tr><tr><td>Jiri Uchytil</td><td>Alberton</td><td>410E</td></tr><tr><td>Tracy Valadao</td><td>Midrand</td><td>410E</td></tr><tr><td>Carl van Blerk</td><td>Eden</td><td>410W</td></tr><tr><td>HILARY LISE VAN BREDA</td><td>Cape Town</td><td>410W</td></tr><tr><td>Marina Van de Merwe</td><td>Malmesbury</td><td>410W</td></tr><tr><td>Ingrid van der Merwe</td><td>Letaba Tzaneen</td><td>410E</td></tr><tr><td>PATRICIA VAN DER MERWE</td><td>East London Port Rex</td><td>410E</td></tr><tr><td>MARINA VAN DER MERWE</td><td>Malmesbury</td><td>410W</td></tr><tr><td>Hennie van der Westhuizen</td><td>Helderberg</td><td>410W</td></tr><tr><td>Sydney van Heerden</td><td>Wilro Park</td><td>410E</td></tr><tr><td>Sandy van Heerden</td><td>Wilro Park</td><td>410E</td></tr><tr><td>Craig van Heerden</td><td>East London Beacon Bay</td><td>410E</td></tr><tr><td>Mark van Heerden</td><td>Pretoria South</td><td>410E</td></tr><tr><td>Riaan Van Niekerk</td><td>Pretoria South</td><td>410E</td></tr><tr><td>Neville Van Rensburg</td><td>Moorreesburg</td><td>410W</td></tr><tr><td>Johan van Rensburg</td><td>Windhoek</td><td>410W</td></tr><tr><td>Anne van Rensburg</td><td>Windhoek</td><td>410W</td></tr><tr><td>Lorna Van Romburgh</td><td>Fish Hoek</td><td>410W</td></tr><tr><td>Jeannie van Wulven</td><td>Tygerberg Hills</td><td>410W</td></tr><tr><td>Alan van Wulven</td><td>Tygerberg Hills</td><td>410W</td></tr><tr><td>Deon van Wulven</td><td>Tygerberg Hills</td><td>410W</td></tr><tr><td>Kim van Wyk</td><td>North Durban</td><td>410E</td></tr><tr><td>Lindie van Wyk</td><td>Pretoria Jakaranda</td><td>410E</td></tr><tr><td>Willem van Wyk</td><td>Midrand</td><td>410E</td></tr><tr><td>Patricia van Wyk</td><td>Pretoria Jakaranda</td><td>410E</td></tr><tr><td>Edith Van Wyk-Nelson</td><td>Kuilsriver</td><td>410W</td></tr><tr><td>Louis Venter</td><td>Letaba Tzaneen</td><td>410E</td></tr><tr><td>Russell Volker</td><td>King William's Town</td><td>410E</td></tr><tr><td>Brian von der Decken</td><td>King William's Town</td><td>410E</td></tr><tr><td>Rinette Von Mollendorf</td><td>Durbanville</td><td>410W</td></tr><tr><td>Rochelle Vorster</td><td>Sedgefield</td><td>410W</td></tr><tr><td>Alastair Warman</td><td>Port Shepstone</td><td>410E</td></tr><tr><td>Allan Watson</td><td>Sea Point</td><td>410W</td></tr><tr><td>Alison Watson</td><td>Sedgefield</td><td>410W</td></tr><tr><td>Johanna Williams</td><td>Mitchells Plain</td><td>410W</td></tr><tr><td>Neville Williamson</td><td>Port Alfred</td><td>410E</td></tr><tr><td>Geila Wills</td><td>Athlone</td><td>410W</td></tr><tr><td>Meredith Wilter-Sturges</td><td>Midrand</td><td>410E</td></tr><tr><td>Joan Woodman</td><td>Mitchells Plain</td><td>410W</td></tr><tr><td>Rocky Wright</td><td>Table View</td><td>410W</td></tr><tr><td>Judy Young</td><td>Durbanville</td><td>410W</td></tr><tr><td>Gerry Young</td><td>Mitchells Plain</td><td>410W</td></tr><tr><td>Leonie Zucker</td><td>Milnerton</td><td>410W</td></tr><tr><td>Leonie Zucker</td><td>Milnerton</td><td>410E</td></tr><tr><td>Michelle ‘t Hart</td><td>Benoni Lakes</td><td>410E</td></tr>
 </tbody>
 </table>

diff --git a/content/full_stats/_index.md b/content/full_stats/_index.md
@@ -17,16 +17,16 @@ draft: false
 <body>
 <h1 style="color: #000000;">Full Registration Stats</h1>
 <a href="/docs/registrees_list.xlsx">Download Registrees Excel File</a>
-<ul><li><strong>Number of Registrees</strong>: 288</li>
+<ul><li><strong>Number of Registrees</strong>: 287</li>
 <li><strong>Number of Clubs</strong>: 68</li>
 <li><strong>Club With Most Attendees</strong>: Windhoek (16 registrees)</li>
 
-<li><strong>Number of District 410W Convention Attendees</strong>: 149</li>
+<li><strong>Number of District 410W Convention Attendees</strong>: 147</li>
 <li><strong>Number of District 410W Convention Voters</strong>: 67</li>
-<li><strong>Number of District 410E Convention Attendees</strong>: 118</li>
+<li><strong>Number of District 410E Convention Attendees</strong>: 119</li>
 <li><strong>Number of District 410E Convention Voters</strong>: 60</li>
 
-<li><strong>Number of MD410 Convention Attendees</strong>: 229</li>
+<li><strong>Number of MD410 Convention Attendees</strong>: 228</li>
 <li><strong>Number of MD410 Convention Voters</strong>: 109</li>
 
 </ul>
@@ -161,28 +161,6 @@ draft: false
 </tr>
 
     
-<td>320</td>
-<td>Cathleen Benade</td>
-<td>Rehoboth</td>
-<td>410W</td>
-<td>No</td>
-<td style="background-color: lightgreen">Yes</td>
-<td style="background-color: lightgreen">Yes</td>
-<td style="background-color: lightgreen">Yes</td>
-</tr>
-
-    
-<td>328</td>
-<td>Cathleen Benade</td>
-<td>Rehoboth</td>
-<td>410W</td>
-<td>No</td>
-<td style="background-color: lightgreen">Yes</td>
-<td style="background-color: lightgreen">Yes</td>
-<td style="background-color: lightgreen">Yes</td>
-</tr>
-
-    
 <td>22</td>
 <td>Valencia Beukes-Williams</td>
 <td>Kuilsriver</td>
@@ -200,6 +178,17 @@ draft: false
 <td>410E</td>
 <td>No</td>
 <td>No</td>
+<td style="background-color: lightgreen">Yes</td>
+<td>No</td>
+</tr>
+
+    
+<td>331</td>
+<td>Mel Boswell</td>
+<td>Nelspruit</td>
+<td>410E</td>
+<td>No</td>
+<td style="background-color: lightgreen">Yes</td>
 <td style="background-color: lightgreen">Yes</td>
 <td>No</td>
 </tr>
